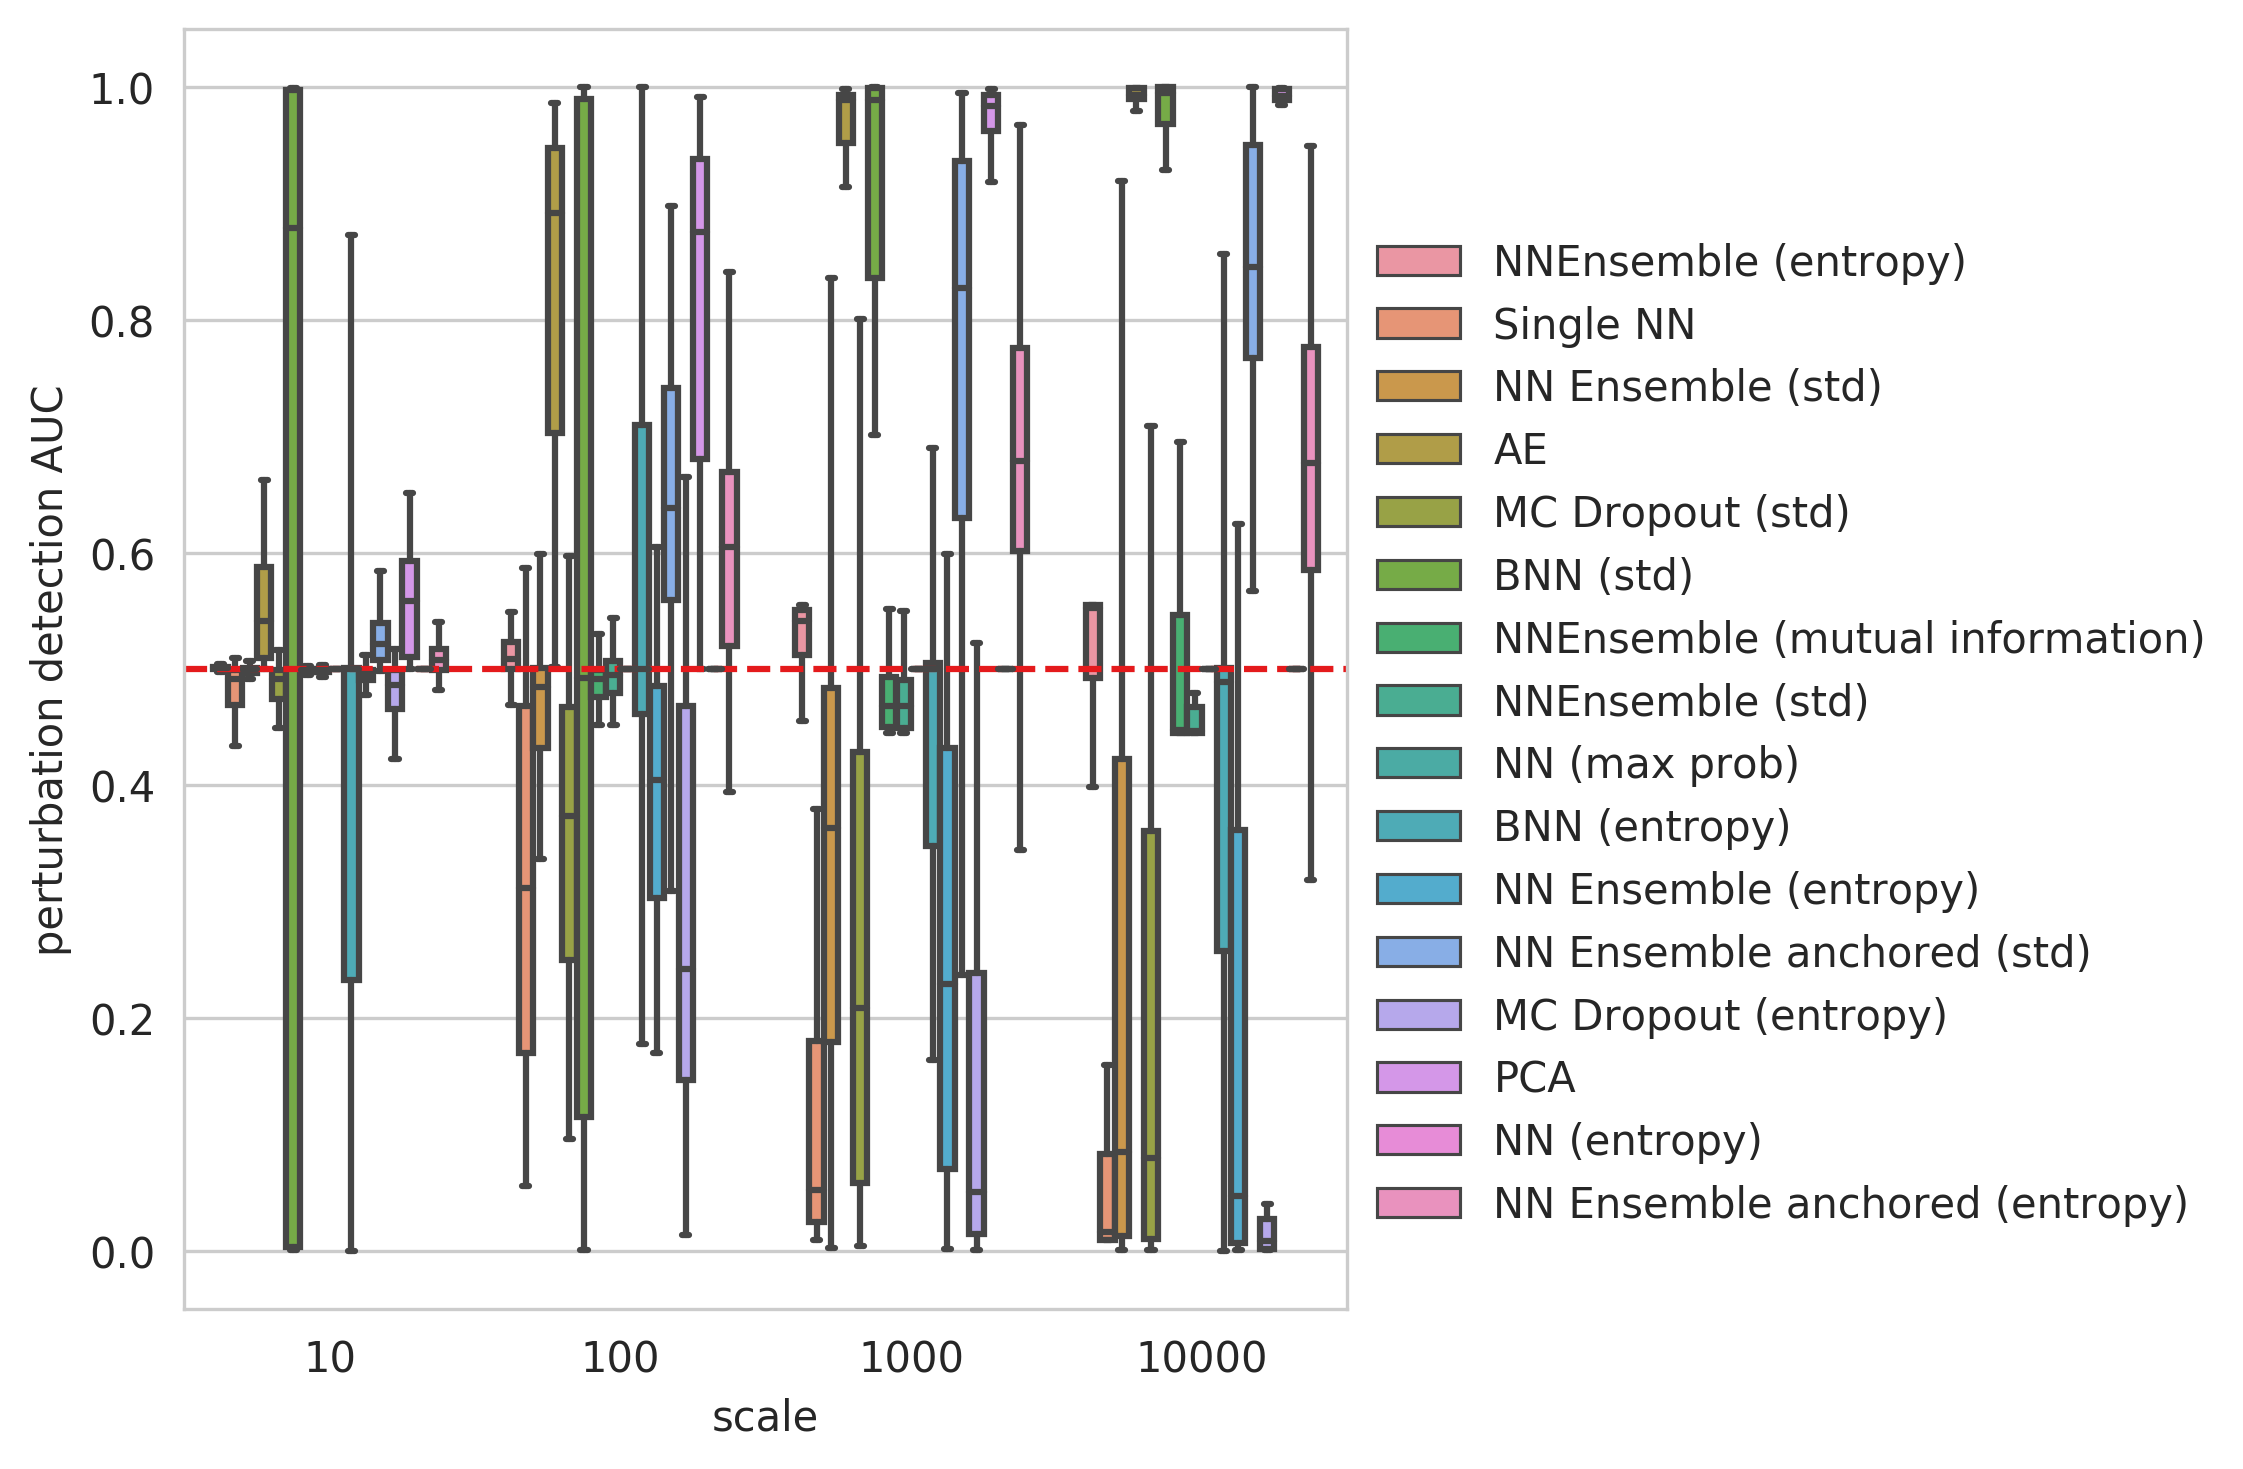
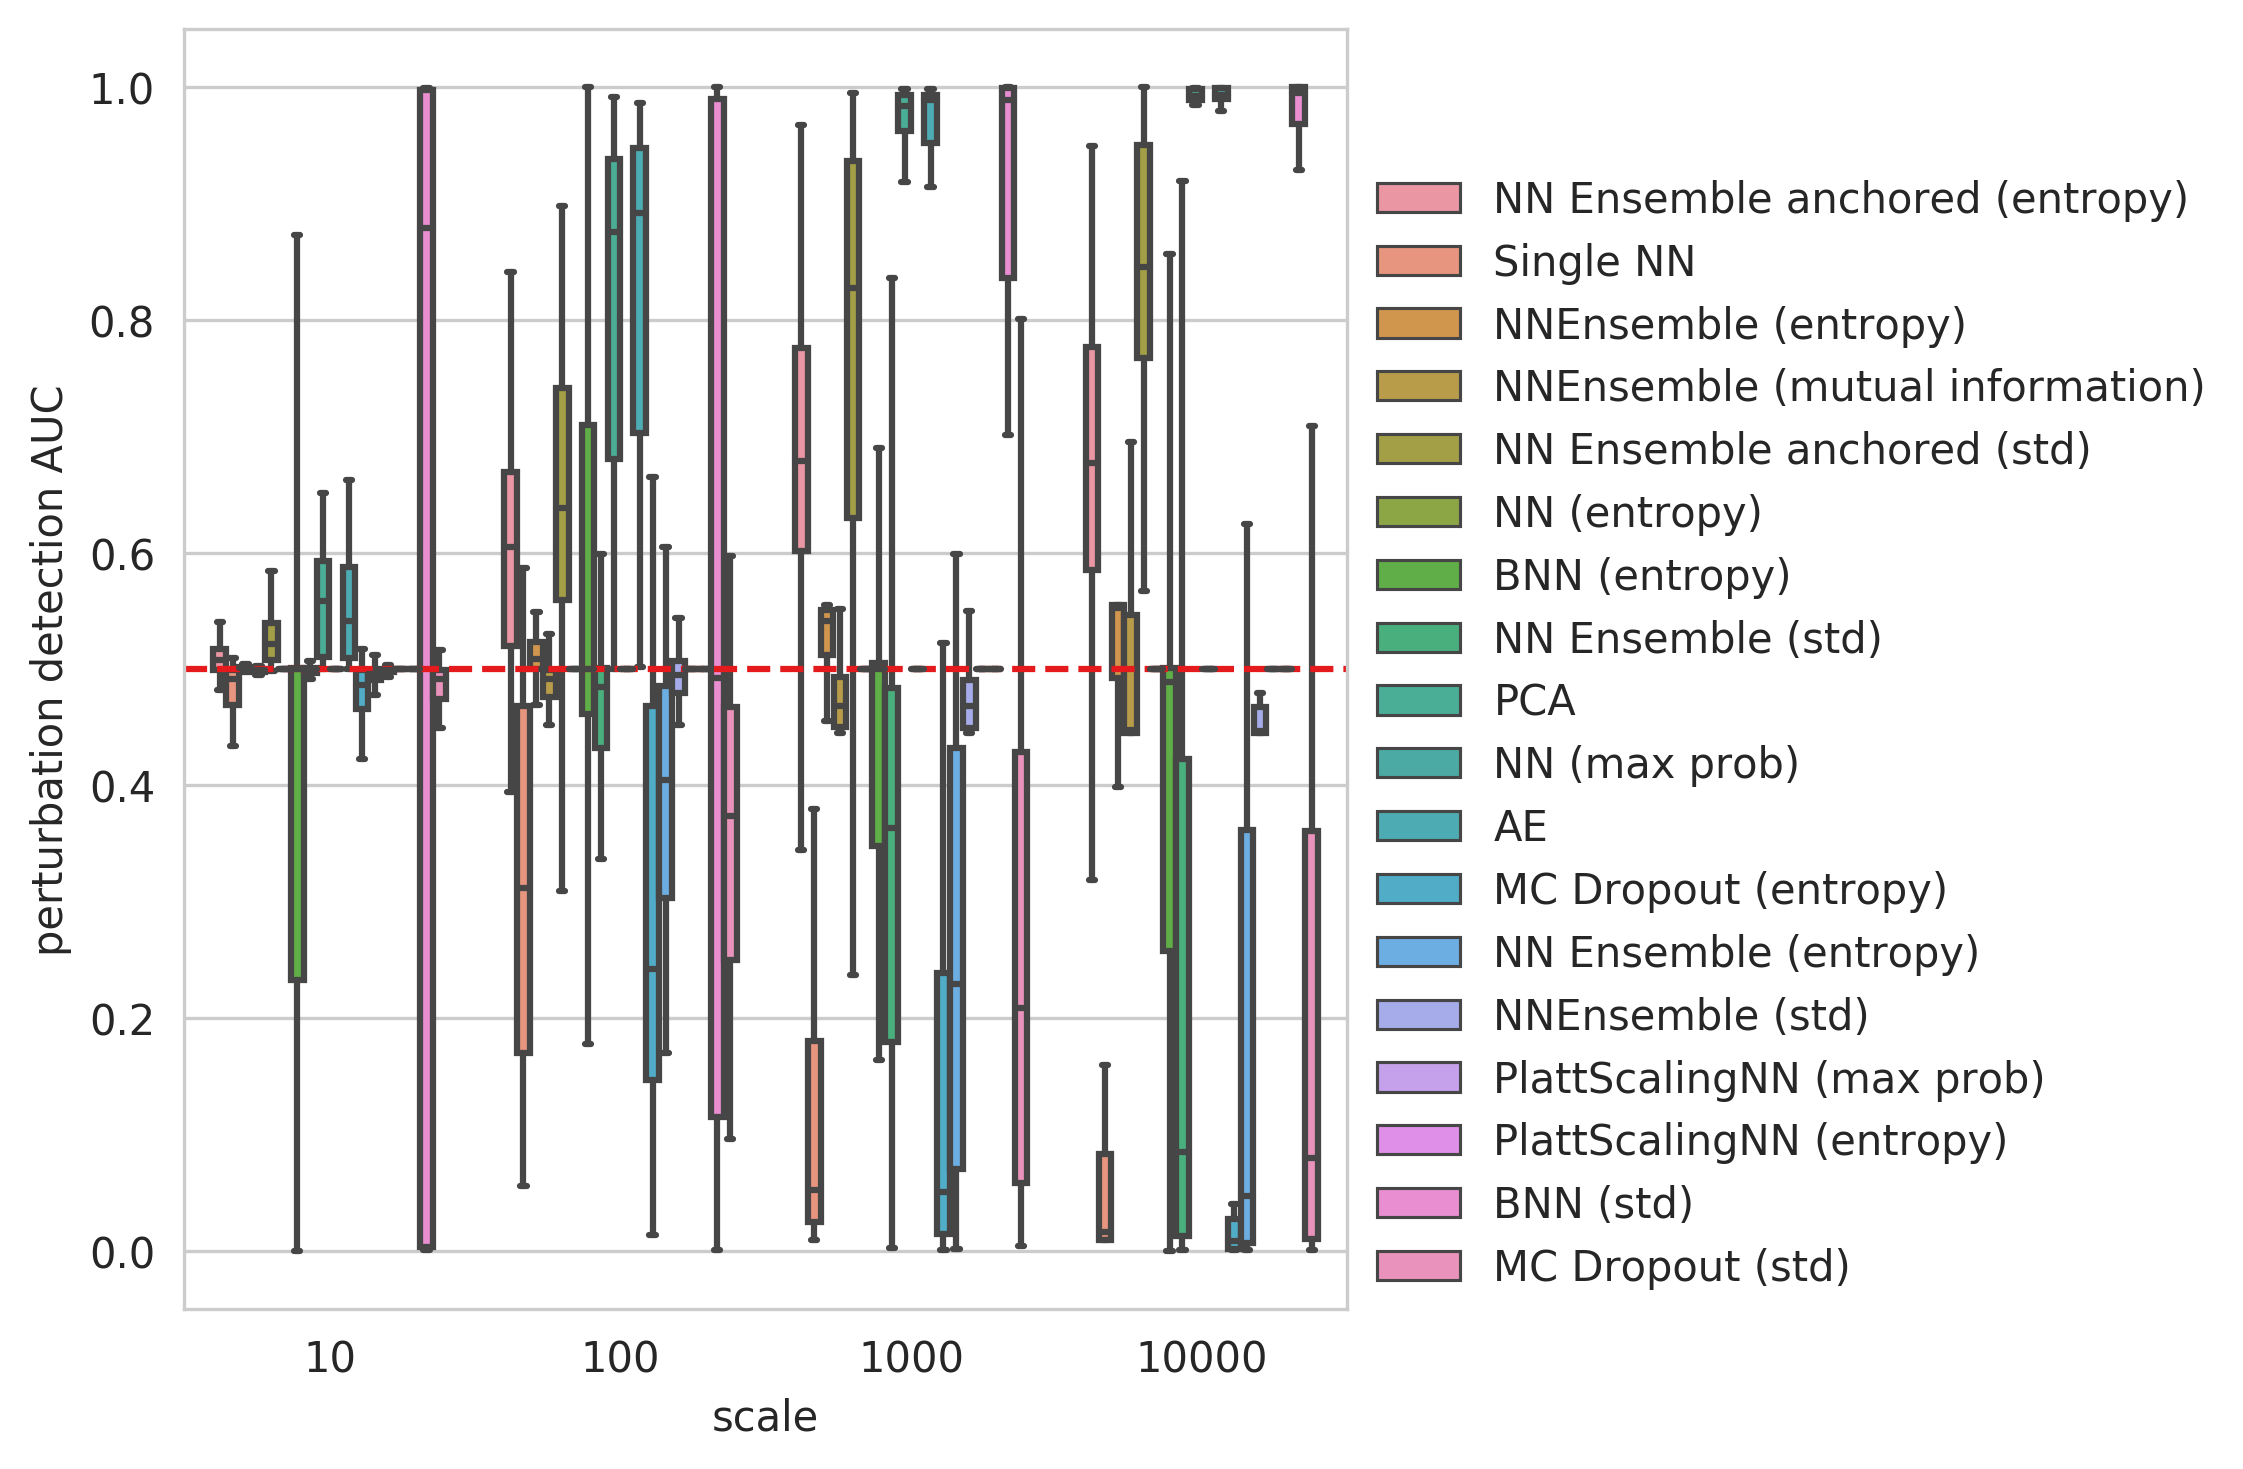
:sparkles: Add Platt scaling

Changed region(s): [[0.0936, 0.0613, 0.9987, 0.8577], [0.593, 0.5514, 0.9675, 0.8884]]

diff --git a/uncertainty_estimation/models/mlp.py b/uncertainty_estimation/models/mlp.py
@@ -25,7 +25,7 @@ from uncertainty_estimation.utils.metrics import entropy
 
 class MLPModule(nn.Module):
     """
-    Abstract class for a multilayer perceptron.
+    Base class for a multilayer perceptron.
     """
 
     def __init__(
@@ -324,8 +324,6 @@ class MLP:
         The dropout rate applied after each layer (except the output layer)
     output_size: int
         The output size.
-    batch_norm: bool
-        Whether to apply batch normalization after each layer.
     """
 
     def __init__(
@@ -344,6 +342,7 @@ class MLP:
         )
         self.optimizer = torch.optim.Adam(self.model.parameters(), lr=lr)
         self.class_weight = class_weight
+        self.lr = lr
 
     def _initialize_dataloader(
         self, X_train: np.ndarray, y_train: np.ndarray, batch_size: int
@@ -510,6 +509,98 @@ class MLP:
         )
 
         return np.stack([1 - predictions, predictions], axis=1)
+
+
+class PlattScalingMLP(MLP):
+    """
+    Handles the training of a MLP module with Platt scaling.
+    """
+
+    def train(
+        self,
+        X_train: np.ndarray,
+        y_train: np.ndarray,
+        X_val: np.ndarray,
+        y_val: np.ndarray,
+        batch_size: int = DEFAULT_BATCH_SIZE,
+        n_epochs: int = DEFAULT_N_EPOCHS,
+        early_stopping: bool = True,
+        early_stopping_patience: int = DEFAULT_EARLY_STOPPING_PAT,
+    ):
+        """
+        Train the MLP.
+
+        Parameters
+        ----------
+        X_train: np.ndarray
+            The training data.
+        y_train: np.ndarray
+            The labels corresponding to the training data.
+        X_val: np.ndarray
+            The validation data.
+        y_val: np.ndarray
+            The labels corresponding to the validation data.
+        batch_size: int
+            The batch size, default 256
+        n_epochs: int
+            The number of training epochs, default 30
+        early_stopping: bool
+            Whether to perform early stopping, default True
+        early_stopping_patience: int
+            The early stopping patience, default 2.
+        """
+        # Do the regular training first
+        super().train(
+            X_train,
+            y_train,
+            X_val,
+            y_val,
+            batch_size,
+            n_epochs,
+            early_stopping,
+            early_stopping_patience,
+        )
+
+        # Now learn the platt scaling on the validation set
+        self.model.eval()
+        scaling_layer = nn.Linear(1, 1).train()
+
+        val_set = SimpleDataset(torch.from_numpy(X_train), torch.from_numpy(y_train))
+        val_loader = DataLoader(val_set, batch_size, shuffle=True)
+        loss_fn = torch.nn.BCEWithLogitsLoss()
+        optimizer = torch.optim.Adam(scaling_layer.parameters(), lr=self.lr)
+
+        prev_val_loss = float("inf")
+        n_no_improvement = 0
+
+        def _logit(predictions: torch.Tensor) -> torch.Tensor:
+            return torch.log(predictions / (1 + 1e-8 - predictions) + 1e-8)
+
+        for epoch in range(n_epochs):
+
+            for batch_X, batch_y in val_loader:
+                batch_X, batch_y = batch_X.float(), batch_y.float().view(-1, 1)
+                optimizer.zero_grad()
+
+                logits = _logit(self.model(batch_X))
+                loss = loss_fn(scaling_layer(logits), batch_y)
+                loss.backward()
+                optimizer.step()
+
+                if loss >= prev_val_loss:
+                    n_no_improvement += 1
+
+                else:
+                    n_no_improvement = 0
+                    prev_val_loss = loss
+
+            if n_no_improvement >= early_stopping_patience:
+                print("Early stopping platt scale training after", epoch, "epochs.")
+                break
+
+        # Add scaling layer to model
+        self.model.mlp.add_module("platt_scaling", scaling_layer)
+        self.model.train()
 
 
 class MCDropoutMLP(MLP, MultiplePredictionsMixin):

diff --git a/uncertainty_estimation/models/info.py b/uncertainty_estimation/models/info.py
@@ -14,7 +14,10 @@ BASELINES = {
     "SVM",  # One-class SVM for outlier detection
 }
 
-SINGLE_PRED_NN_MODELS = {"NN"}  # Single neural discriminator
+SINGLE_PRED_NN_MODELS = {
+    "NN",  # Single neural discriminator
+    "PlattScalingNN",  # Single neural discriminator with platt scaling
+}
 
 ENSEMBLE_MODELS = {
     "NNEnsemble",  # Ensemble of neural discriminators
@@ -51,6 +54,7 @@ AVAILABLE_SCORING_FUNCS = {
     "AE": (None,),  # Default: Reconstruction error
     "SVM": (None,),  # Default: Distance to decision boundary
     "NN": ("entropy", "max_prob"),  # Default: entropy
+    "PlattScalingNN": ("entropy", "max_prob"),
     "MCDropout": ("entropy", "std", "mutual_information"),
     "BNN": ("entropy", "std", "mutual_information"),
     "NNEnsemble": ("entropy", "std", "mutual_information"),
@@ -70,6 +74,12 @@ MODEL_PARAMS = {
     },
     "SVM": {},
     "NN": {
+        "hidden_sizes": [50, 50],
+        "dropout_rate": 0.0,
+        "lr": 1e-3,
+        "class_weight": False,
+    },
+    "PlattScalingNN": {
         "hidden_sizes": [50, 50],
         "dropout_rate": 0.0,
         "lr": 1e-3,
@@ -129,6 +139,12 @@ TRAIN_PARAMS = {
     "AE": {"n_epochs": 50},
     "SVM": {},
     "NN": {
+        "batch_size": 256,
+        "early_stopping": True,
+        "early_stopping_patience": 3,
+        "n_epochs": 100,
+    },
+    "PlattScalingNN": {
         "batch_size": 256,
         "early_stopping": True,
         "early_stopping_patience": 3,

diff --git a/uncertainty_estimation/utils/model_init.py b/uncertainty_estimation/utils/model_init.py
@@ -13,7 +13,12 @@ from sklearn.svm import OneClassSVM
 from uncertainty_estimation.models.novelty_estimator import NoveltyEstimator
 from uncertainty_estimation.models.nn_ensemble import NNEnsemble, AnchoredNNEnsemble
 from uncertainty_estimation.models.autoencoder import AE
-from uncertainty_estimation.models.mlp import MLP, BayesianMLP, MCDropoutMLP
+from uncertainty_estimation.models.mlp import (
+    MLP,
+    BayesianMLP,
+    MCDropoutMLP,
+    PlattScalingMLP,
+)
 from uncertainty_estimation.models.info import (
     AVAILABLE_MODELS,
     AVAILABLE_SCORING_FUNCS,
@@ -59,6 +64,7 @@ def init_models(
         "SVM": OneClassSVM,
         "AE": AE,
         "NN": MLP,
+        "PlattScalingNN": PlattScalingMLP,
         "BNN": BayesianMLP,
         "MCDropout": MCDropoutMLP,
         "NNEnsemble": NNEnsemble,

diff --git a/uncertainty_estimation/models/novelty_estimator.py b/uncertainty_estimation/models/novelty_estimator.py
@@ -13,6 +13,7 @@ from uncertainty_estimation.models.info import (
     BASELINES,
     NEURAL_PREDICTORS,
     MULTIPLE_PRED_NN_MODELS,
+    SINGLE_PRED_NN_MODELS,
 )
 
 
@@ -105,7 +106,7 @@ class NoveltyEstimator:
             else:
                 raise ValueError(f"Unknown type of scoring function: {scoring_func}")
 
-        elif self.name == "NN":
+        elif self.name in SINGLE_PRED_NN_MODELS:
 
             if scoring_func == "entropy":
                 return entropy(self.model.predict_proba(data), axis=1)
@@ -115,3 +116,7 @@ class NoveltyEstimator:
 
             else:
                 raise ValueError(f"Unknown type of scoring function: {scoring_func}")
+
+        else:
+
+            raise ValueError(f"Unknown model type: {self.name}")

diff --git a/uncertainty_estimation/experiments/plot_results.py b/uncertainty_estimation/experiments/plot_results.py
@@ -31,6 +31,7 @@ def plot_ood_from_pickle(data_origin, result_dir, plot_dir, dummy_group_name=Non
     for method in available_results:
         method_dir = os.path.join(ood_dir_name, method)
         detection_dir = os.path.join(method_dir, "detection")
+
         for kind in os.listdir(detection_dir):
             if kind == "None":
                 name = method.replace("_", " ")
